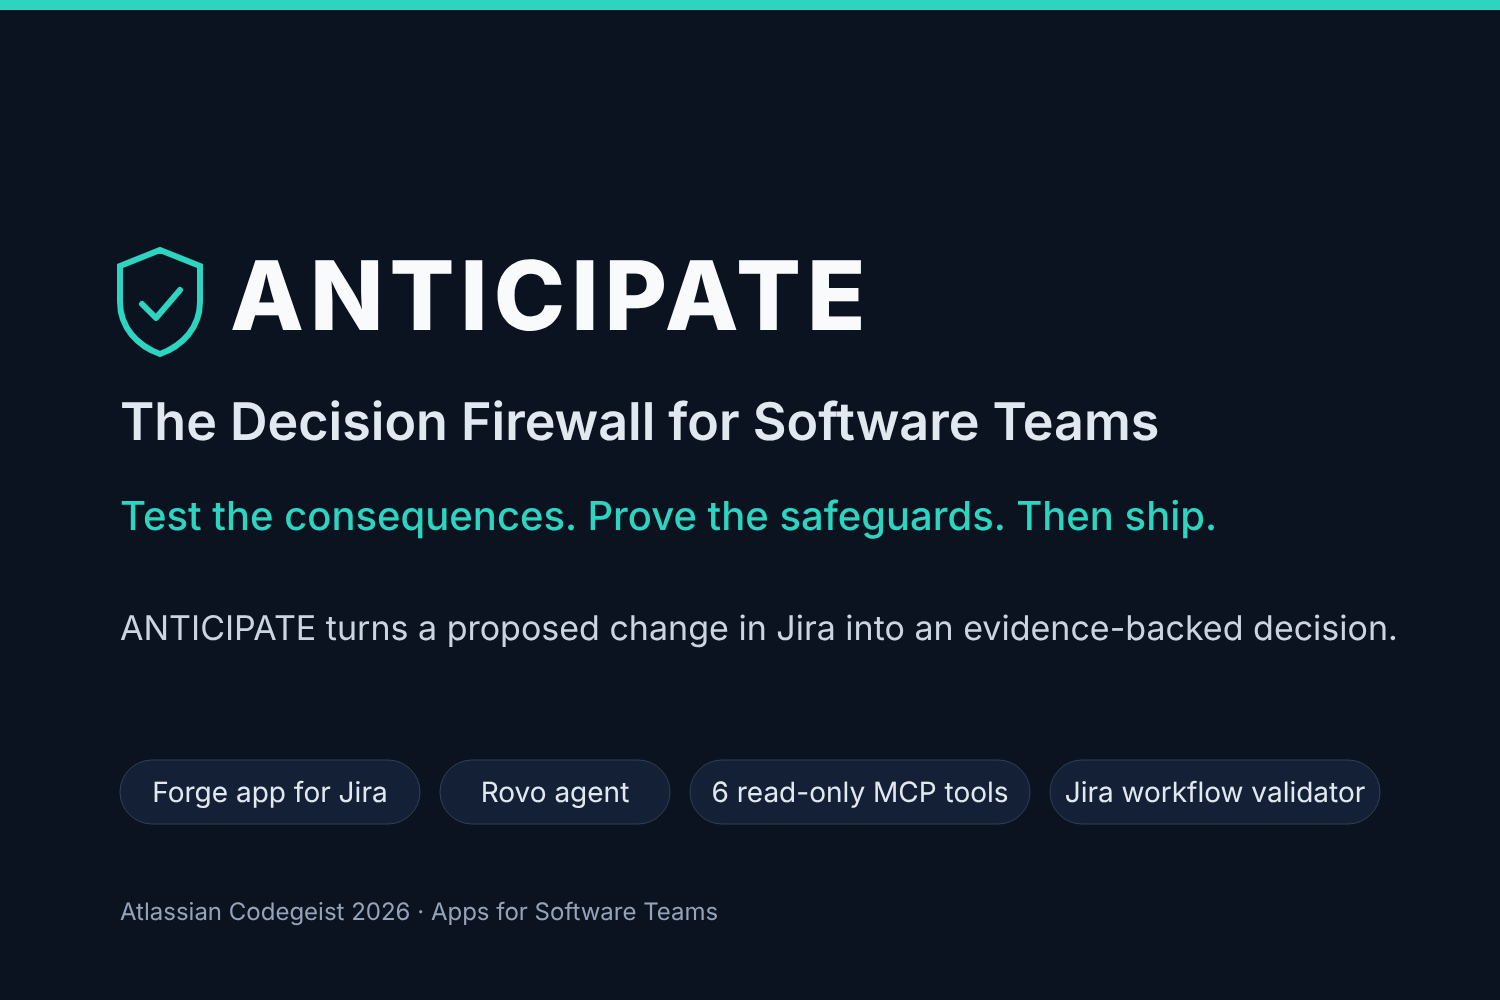
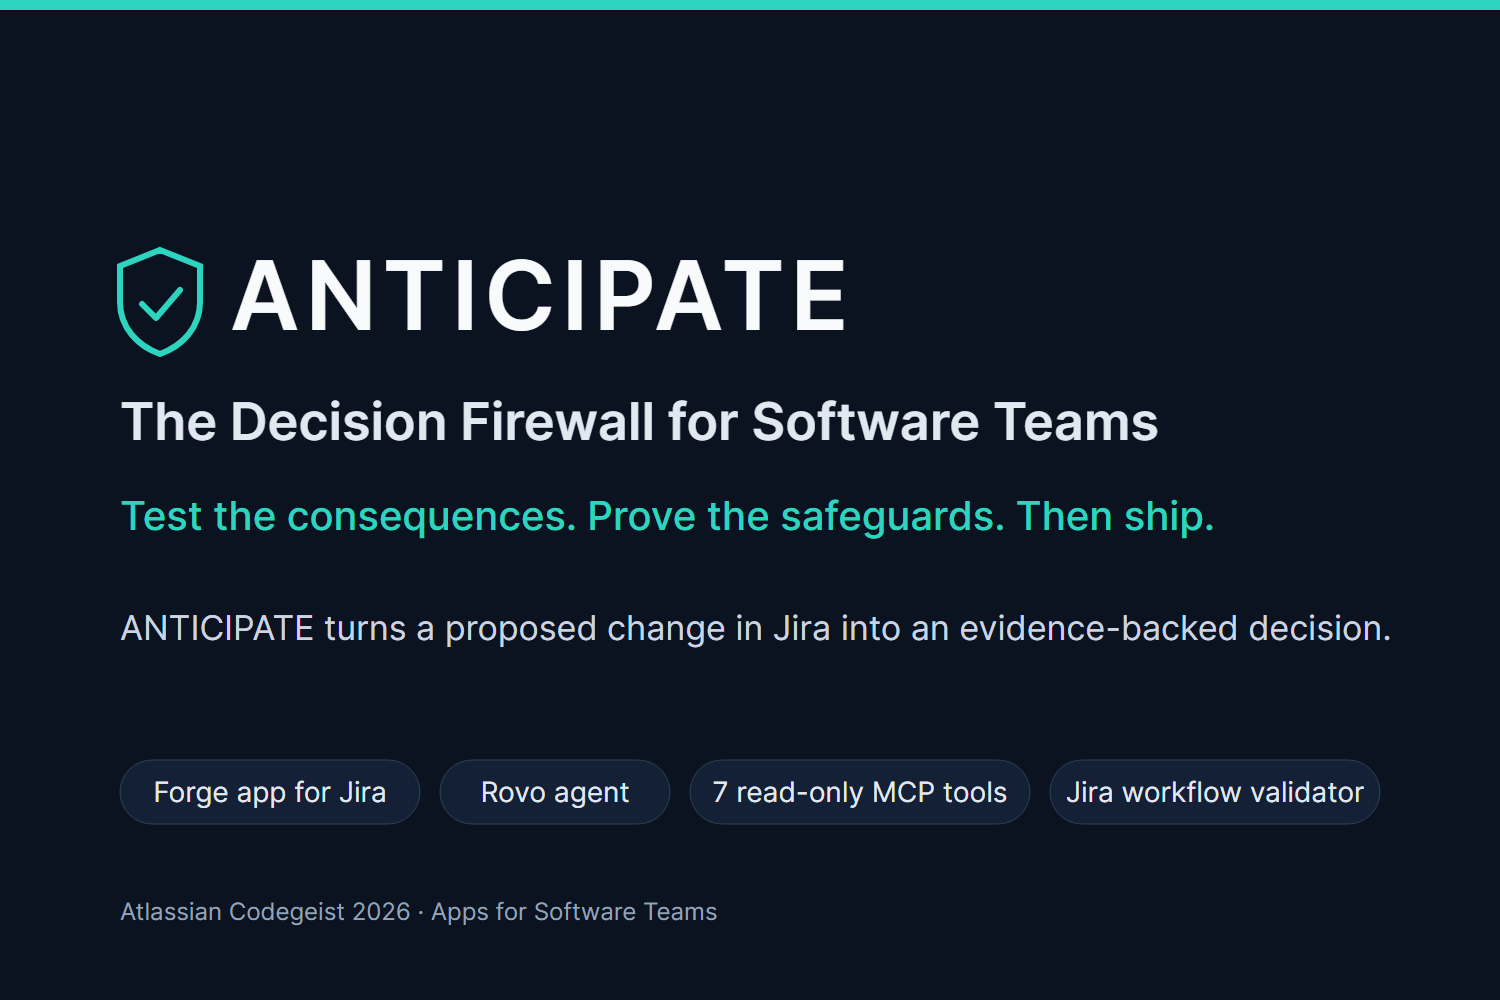
docs: sync counts to main c9284ae, gallery 7 tools, BOOTSTRAP path

diff --git a/docs/RELEASE.md b/docs/RELEASE.md
@@ -4,7 +4,7 @@ Validated: 3 Nov 2026, 13:40 Paris (CORE). Main/deploy-source rows re-checked 5 
 
 | Item | Value |
 |---|---|
-| GitHub main (current) | bd683e4 (7 Nov 2026, after #196 zero-drift P0: analyzeIssue, project-scoped releases, portfolio generation + 26 regression tests). Earlier 075160f (#195 docs re-sync), b8d0c8c (#194 dev 6.28.0 record) |
+| GitHub main (current) | c9284ae (7 Nov 2026, after #198 OMEGA P0 security batch: +20 backend tests). Earlier f0e4830 (#197 v8.0.0 record), bd683e4 (#196 zero-drift P0), 075160f (#195 docs re-sync), b8d0c8c (#194 dev 6.28.0 record) |
 | Source of development deploy | main bd683e4 → **v8.0.0** (7 Nov 2026 ~18:17 UTC, direct Forge CLI, same command as bridge `muse-cmd` deploy-dev; MAJOR approval restoring committed manifest over unrecorded v7 experiment, bridge loop down). Earlier main 1c219ee → v6.28.0 (6 Nov, via bridge) |
 | Source of production deploy | main 113ddc5 (after #179) → **v2.38.0**, 5 Nov 2026 ~13:55 UTC via bridge `deploy-prod` (owner approval in chat). Manifest unchanged since 2.36.0 (no re-consent). Previous: v2.37.0 (main 8262f88, ~13:10 UTC; Release Safety, overview, Time Machine, Composer verified on ADM, see EVIDENCE_PACK). Installed on both production sites. Rollback reference: 2.36.0 (main after #165) |
 | main at test-count refresh | 3668327 (adds #156 first-run copy, #157 shared-decisions acceptance panel (dev only) + refused-execution display, #158 radar sticky-error fix, #159 inert policy-as-code preview engine) |
@@ -18,6 +18,7 @@ Validated: 3 Nov 2026, 13:40 Paris (CORE). Main/deploy-source rows re-checked 5 
 | Tests (main 4fa2cc4 + this branch, 5 Nov, cloud runner) | backend **295** (32 files), simulation-core **75**, contracts **8**, frontend unit **151**, Playwright **182** listed (all browser projects). Per PR: #173 +12 backend / +4 frontend unit / +3 Playwright; #174 +6 / +2; #176 +8 backend / +2 frontend (#176 also moved portfolio snapshot validation into a shared helper); release overview (this branch) +3 / +1. Test deltas for #177–#182 folded into the 6 Nov recount below |
 | Tests (main 96ad19b, 6 Nov, local runners) | backend **306** (36 files), simulation-core **75**, contracts **12**, frontend unit **175** (40 files), Playwright **186** listed in 30 files. Deltas since 4fa2cc4: #183 +2 backend/+4 contracts; #184 +5 backend; #186 docs; #187 test-only fix (no count change); #188 +4 backend/+24 frontend unit/+4 e2e listed (#177/#179/#181/#182 splits folded in, not reconstructed). Same commands as row above; confirm against cloud runner at freeze |
 | Tests (main bd683e4, 7 Nov, local + cloud CI) | backend **306** (36 files), simulation-core **75**, contracts **12**, frontend unit **201** (43 files), Playwright **186** listed in 30 files (146/146 chromium executed locally). Deltas since 96ad19b: #194/#195 docs only; #196 +26 frontend unit (issueRace 9, release-switch 9, portfolio-stale 8). Cloud CI green (core, frontend, e2e) on #196 |
+| Tests (main c9284ae, 7 Nov, local + cloud CI) | backend **326** (38 files), simulation-core **75**, contracts **12**, frontend unit **201** (43 files), Playwright **186** listed in 30 files. Deltas since bd683e4: #197 docs only; #198 +20 backend (omega P0 security batch: omega-p0-security 18, payloads 2). Cloud CI green (core, frontend, e2e) on #198 |
 | How tests are counted | Runtime totals reported by the runners, not a count of `it(` in the source (some tests are generated in loops, e.g. `test/validator-policy.test.ts`). Commands: `npm test` at the root (backend), in `packages/simulation-core` and `packages/contracts`, and in `static/hello-world` (vitest "Tests" line); `npx playwright test --list` in `static/hello-world` ("Total" line). |
 | Hosted evidence | docs/evidence/EVIDENCE_PACK.md (2–5 Nov, incl. the production 2.37.0 session) |
 | Known limitations | clean-site judge run PASS (3 Nov, production, Jira Free; limited roles not configurable on Free); plans private to creator; first open ~2.6 s warm, ~3.9 s backend-cold, up to ~9.3 s right after a deploy (cold CDN), see EVIDENCE_PACK; 5 moderate advisories in Forge tooling |

diff --git a/docs/submission/DEVPOST_FINAL.md b/docs/submission/DEVPOST_FINAL.md
@@ -43,7 +43,7 @@ Who it helps: engineering managers reviewing risky changes, platform teams retir
 - **Deterministic engine:** a pure TypeScript simulation package applies each option to an isolated copy of a frozen snapshot, traces impact through reverse dependencies with causal paths, evaluates policies and returns a reproducible hash. No probabilities or invented savings.
 - **Safe execution:** approval is bound to the plan version and expires with the snapshot. Execution takes a per-plan lease, uses idempotency keys and marker reconciliation so retries never create duplicates, and only reports Verified after re-reading Jira. Partial outcomes are reported as Partial.
 - **Shared contracts:** zod schemas validate every request and response on both sides.
-- **Quality:** 295 backend tests (including authorization, concurrency, outage policy, a 50-cycle soak test and storage-failure injection), 75 simulation-engine tests, 8 contract tests, 151 frontend unit tests and 182 Playwright tests (Chromium, Firefox and WebKit) with automated accessibility checks on light and dark themes. Counts are for main on 5 Nov 2026; see docs/RELEASE.md. CI runs typecheck, lint, formatting, unit tests, Playwright and a security audit on every pull request.
+- **Quality:** 326 backend tests (including authorization, concurrency, outage policy, a 50-cycle soak test and storage-failure injection), 75 simulation-engine tests, 12 contract tests, 201 frontend unit tests and 186 Playwright cases listed in 30 files (Chromium, Firefox and WebKit) including automated accessibility checks on light and dark themes. Counts are for main c9284ae on 7 Nov 2026; see docs/RELEASE.md. CI runs typecheck, lint, formatting, unit tests, Playwright and a security audit on every pull request.
 - **Two-person team:** one owner on backend, engine, Forge and security; one on interface, accessibility and presentation, coordinating through written contracts in the repository.
 
 ## Challenges we ran into
@@ -113,7 +113,7 @@ ANTICIPATE exposes seven tools through `rovo:mcp` that never write to Jira: get 
 | MCP from an external client | EVIDENCE_PACK: "MCP (external client)" (get-graph, simulate-retirement, get-passport, 2 Nov), "MCP after rollback"; simulate-upgrade + check-freshness via mcp.atlassian.com 3 Nov (ENGINEERING_REPORT). 5/7 tools externally verified; slip + portfolio pending an admin-enabled session (STATUS.md) |
 | Rovo agent answers | EVIDENCE_PACK: "Hosted verification, 2 Nov" (Rovo chat), "Dependency upgrade use case" |
 | Sample data, idempotent | EVIDENCE_PACK: "Hosted verification, 2 Nov"; clean-site run "Re-preview" |
-| Test counts | docs/RELEASE.md (single source): backend 306, simulation-core 75, contracts 12, frontend unit 175, Playwright 186 listed in 30 files (main 96ad19b, 6 Nov recount; confirm against cloud runner at freeze) |
+| Test counts | docs/RELEASE.md (single source): backend 326, simulation-core 75, contracts 12, frontend unit 201, Playwright 186 listed in 30 files (main c9284ae, 7 Nov recount; confirm against cloud runner at freeze) |
 | Benchmark | `docs/evidence/BENCHMARK.md` (synthetic, 200 graphs) |
 | Teamwork Graph not integrated | `docs/evidence/TEAMWORK_GRAPH_ALLOWLIST.md`, `.github/agent-coordination/decisions.md` D1 |
 | Shared workspace prototype | `.github/agent-coordination/decisions.md` D3 |

diff --git a/docs/submission/gallery/README.md b/docs/submission/gallery/README.md
@@ -4,7 +4,7 @@ Built from repository facts only. These are diagrams, not captures of the runnin
 
 | Image | Caption (≤ 140 chars) | Source of each fact |
 | --- | --- | --- |
-| `01-cover.png` | ANTICIPATE turns a proposed change in Jira into an evidence-backed decision. Test the consequences. Prove the safeguards. Then ship. | Name, tagline and value line verbatim from `DEVPOST_FINAL.md`; module pills from `manifest.yml` (`global:fullPage`, `rovo:agent`, `rovo:mcp` with 6 tools, `jira:workflowValidator`) |
+| `01-cover.png` | ANTICIPATE turns a proposed change in Jira into an evidence-backed decision. Test the consequences. Prove the safeguards. Then ship. | Name, tagline and value line verbatim from `DEVPOST_FINAL.md`; module pills from `manifest.yml` (`global:fullPage`, `rovo:agent`, `rovo:mcp` with 7 tools, `jira:workflowValidator`) |
 | `02-architecture.png` | How it is built: Forge Custom UI, resolvers running as the user, a deterministic engine, Rovo and MCP read-only tools, a Jira validator. | `manifest.yml` modules and scopes; paths `static/hello-world`, `src/main.ts`, `src/engine/*`, `src/jira`, `src/rovo.ts`, `src/validator.ts`, `packages/simulation-core`, `packages/contracts` |
 | `03-slip-propagation.png` | What if it slips? A 5-day delay moves two dependents and makes release v2.0 4 days late; undated issues stay Unknown. Sample data. | Values from `packages/simulation-core/test/slip.test.ts` (first two tests); rules from `packages/simulation-core/src/slip.ts` (A1–A4); 50-issue limit `SLIP_MAX_ISSUES` and unreadable → Unknown in `src/engine/slip-service.ts` |
 

diff --git a/docs/deployment/BOOTSTRAP.md b/docs/deployment/BOOTSTRAP.md
@@ -7,10 +7,10 @@ npm install -g @forge/cli --prefix E:\Codegeist2026\tools\forge-cli
 forge login            # NEW token from id.atlassian.com; never paste it in files/chat
 forge whoami
 
-cd E:\Codegeist2026\ANTICIPATE-CORE
+cd E:\Codegeist2026\ANTICIPATE
 npm install            # root: Forge backend deps + vitest/typescript
 npm run typecheck
-npm test               # backend 12 tests
+npm test               # backend 326 tests (main c9284ae)
 npx vitest run --root packages/contracts
 npx vitest run --root packages/simulation-core
 cd static\hello-world; npm install; npm run build; cd ..\..

diff --git a/docs/submission/DEVPOST_DRAFT.md b/docs/submission/DEVPOST_DRAFT.md
@@ -1,4 +1,4 @@
-> **Superseded by [DEVPOST_FINAL.md](DEVPOST_FINAL.md). Not for submission.** Kept for history; some values below are out of date (for example five MCP tools, now six).
+> **Superseded by [DEVPOST_FINAL.md](DEVPOST_FINAL.md). Not for submission.** Kept for history; some values below are out of date (for example five MCP tools, now seven).
 
 # Devpost draft (English) — to be finalised with EXPERIENCE
 
